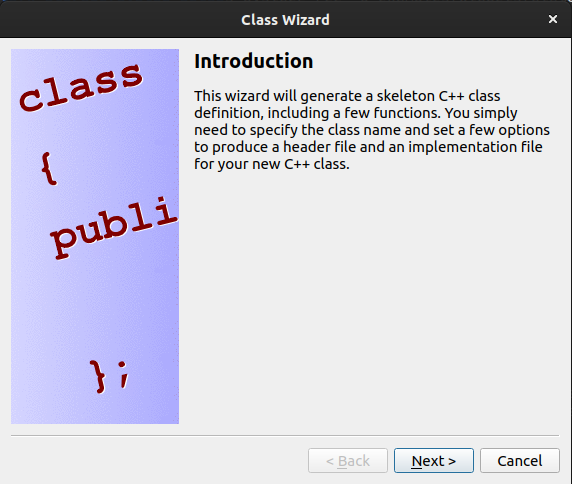
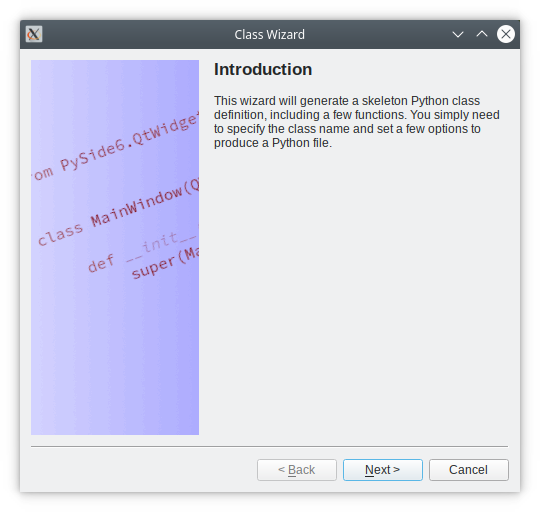
classwizard example: Update documentation and screenshot
Complements 9a9f9fd2528c03df4b0e9dde48026a2181e8a410.

Task-number: PYSIDE-1112

Changed region(s): [[0.0, 0.0, 1.0, 0.9917], [0.1481, 0.7438, 0.237, 0.8058], [0.0889, 0.3719, 0.1185, 0.4029]]

diff --git a/examples/widgets/dialogs/classwizard/doc/classwizard.rst b/examples/widgets/dialogs/classwizard/doc/classwizard.rst
@@ -4,7 +4,7 @@ Classwizard Example
 Demonstrates the use of QDialog in a wizard application
 
 This example demonstrates the use a custom QDialog in a wizard,
-which generates necessary C++ class template code.
+which generates Python class template code.
 
 .. image:: classwizard.png
    :width: 400
